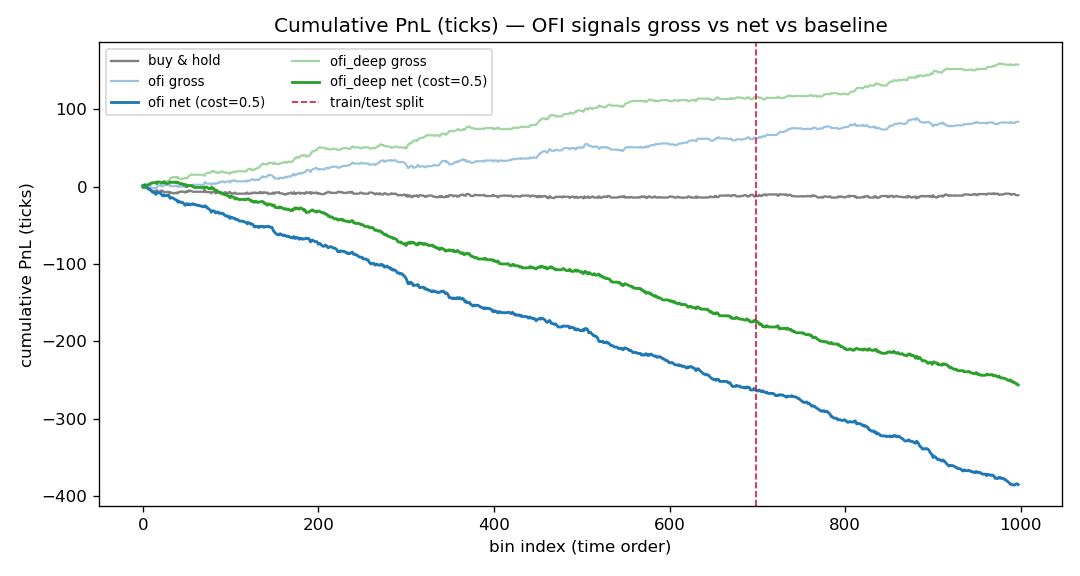
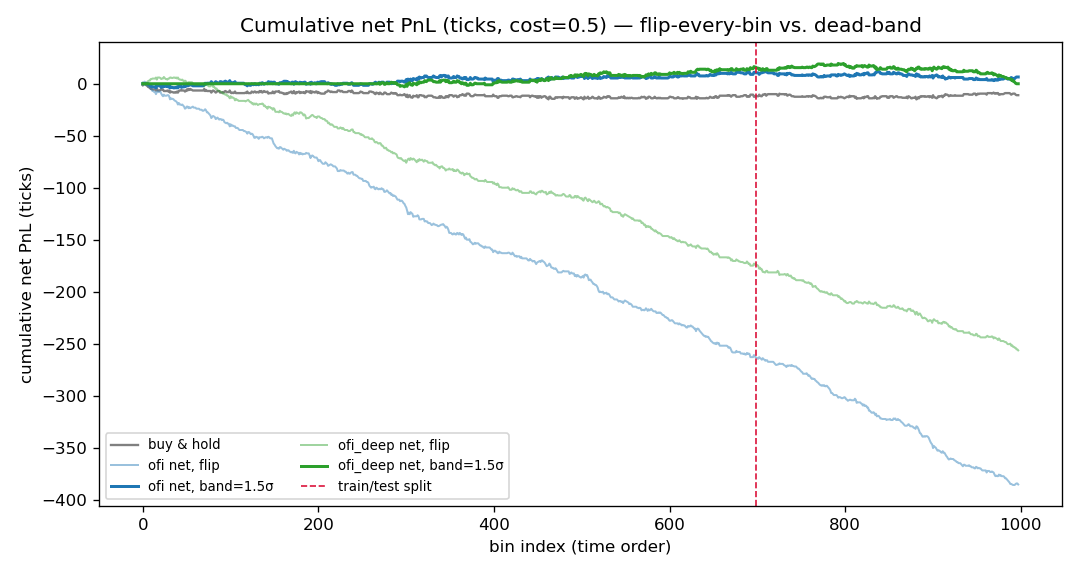
M8: turnover-aware dead-band position sizing
Add a hysteresis dead-band to the cost-aware backtest: position holds until the
predicted move exceeds a threshold tuned on the training window only, cutting
turnover. backtest.py reports flip-every-bin vs dead-band net PnL and the
turnover reduction; plots.py shows both nets vs baseline.

Honest finding (synthetic, 0.5-tick cost): the dead-band cuts L1 turnover ~89%
and lifts test net PnL from -123.5 to -4.5 (near break-even), deep from -82.5 to
-15.5 -- but both stay negative. Throttling turnover removes cost drag; it does
not manufacture alpha from a weak signal on frictionless data. Reported as
measured, not tuned. Docs updated.

Python black-clean; C++ unchanged (64 tests still pass).

diff --git a/python/backtest.py b/python/backtest.py
@@ -10,9 +10,12 @@ Stoikov (2014):
   ``--train-frac`` of bins (chronological, never shuffled) and evaluated on the
   held-out tail.
 
-It also runs a **transaction-cost-aware PnL**: a position ``sign(â + b̂·OFI)``
-from the train fit, charged ``--cost-ticks`` per unit of turnover, so the
-reported net PnL reflects whether any edge survives the spread.
+It also runs a **transaction-cost-aware PnL**: a position from the train-fitted
+line, charged ``--cost-ticks`` per unit of turnover. Two position rules are
+compared — the naive flip-every-bin ``sign(â + b̂·OFI)`` and a **hysteresis
+dead-band** whose width is tuned on the training window only — so the net PnL
+shows both whether any edge survives the spread and how much a turnover throttle
+recovers.
 
 The OLS is implemented directly on ``numpy`` — no heavyweight stats dependency.
 Writes ``bins.csv`` (for plotting) and ``backtest_summary.json`` (metrics).
@@ -85,19 +88,27 @@ def _oos_r2(y_true: np.ndarray, y_pred: np.ndarray) -> float:
     return 1.0 - ss_res / ss_tot if ss_tot > 0 else float("nan")
 
 
-def _pnl(
-    signal: np.ndarray,
-    fwd: np.ndarray,
-    a: float,
-    b: float,
-    cost_ticks: float,
-    split: int,
+def positions(pred: np.ndarray, band: float) -> np.ndarray:
+    """Hysteresis position rule: go long when ``pred > band``, short when
+    ``pred < -band``, otherwise **hold** the current position. ``band == 0``
+    reduces to ``sign(pred)`` (flip every bin). A wider band trades less."""
+    pos = np.zeros(len(pred))
+    cur = 0.0
+    for i in range(len(pred)):
+        p = pred[i]
+        if p > band:
+            cur = 1.0
+        elif p < -band:
+            cur = -1.0
+        pos[i] = cur
+    return pos
+
+
+def _pnl_from_positions(
+    pos: np.ndarray, fwd: np.ndarray, cost_ticks: float, split: int
 ) -> Dict[str, float]:
-    """Cost-aware PnL of trading position = sign(a + b*signal). Turnover is the
-    absolute position change; each unit is charged ``cost_ticks``."""
-    position = np.sign(a + b * signal)
-    turnover = np.abs(np.diff(position, prepend=0.0))
-    gross = position * fwd
+    turnover = np.abs(np.diff(pos, prepend=0.0))
+    gross = pos * fwd
     net = gross - cost_ticks * turnover
     test = slice(split, None)
     return {
@@ -108,6 +119,44 @@ def _pnl(
         "test_net_ticks": float(net[test].sum()),
         "test_turnover": float(turnover[test].sum()),
     }
+
+
+def _pnl(
+    signal: np.ndarray,
+    fwd: np.ndarray,
+    a: float,
+    b: float,
+    cost_ticks: float,
+    split: int,
+) -> Dict[str, float]:
+    """Cost-aware PnL of the plain ``sign(a + b*signal)`` rule (no dead-band)."""
+    return _pnl_from_positions(positions(a + b * signal, 0.0), fwd, cost_ticks, split)
+
+
+def _select_deadband(
+    pred: np.ndarray, fwd: np.ndarray, cost_ticks: float, split: int
+) -> Dict[str, float]:
+    """Chooses the dead-band (as a multiple of the train-set predicted-return
+    std) that maximizes **train** net PnL, then reports its metrics — so the
+    threshold is a hyperparameter tuned only on the training window, never on the
+    held-out test set."""
+    sigma = float(np.std(pred[:split])) or 1.0
+    best: Dict[str, float] = {}
+    best_train = -np.inf
+    for k in (0.0, 0.25, 0.5, 1.0, 1.5, 2.0, 3.0):
+        band = k * sigma
+        pos = positions(pred, band)
+        turnover = np.abs(np.diff(pos, prepend=0.0))
+        train_net = float(
+            (pos[:split] * fwd[:split]).sum() - cost_ticks * turnover[:split].sum()
+        )
+        if train_net > best_train:
+            best_train = train_net
+            best = _pnl_from_positions(pos, fwd, cost_ticks, split)
+            best["band_sigmas"] = k
+            best["band"] = band
+            best["train_net_ticks"] = train_net
+    return best
 
 
 def run(
@@ -128,15 +177,18 @@ def run(
         predictive_is = _fit(fwd[:split], x[:split])
         oos_pred = predictive_is["intercept"] + predictive_is["beta"] * x[split:]
         predictive_oos_r2 = _oos_r2(fwd[split:], oos_pred)
-        pnl = _pnl(
-            x, fwd, predictive_is["intercept"], predictive_is["beta"], cost_ticks, split
-        )
+
+        a, b = predictive_is["intercept"], predictive_is["beta"]
+        pred = a + b * x
+        pnl = _pnl_from_positions(positions(pred, 0.0), fwd, cost_ticks, split)
+        pnl_deadband = _select_deadband(pred, fwd, cost_ticks, split)
 
         signals[sig] = {
             "contemporaneous": contemporaneous,
             "predictive_in_sample": predictive_is,
             "predictive_oos_r_squared": predictive_oos_r2,
             "pnl": pnl,
+            "pnl_deadband": pnl_deadband,
         }
 
     return {
@@ -181,17 +233,28 @@ def main() -> None:
     )
     header = (
         f"{'signal':>9} | {'contemp R²':>10} | {'pred OOS R²':>11} | "
-        f"{'test gross':>10} | {'test net':>9}"
+        f"{'net (flip)':>10} | {'net (band)':>10} | {'band σ':>6} | {'turn↓':>6}"
     )
     print(header)
     print("-" * len(header))
     for sig, m in result["signals"].items():
+        db = m["pnl_deadband"]
+        turn_ratio = (
+            db["test_turnover"] / m["pnl"]["test_turnover"]
+            if m["pnl"]["test_turnover"]
+            else float("nan")
+        )
         print(
             f"{sig:>9} | {m['contemporaneous']['r_squared']:>10.4f} | "
             f"{m['predictive_oos_r_squared']:>11.4f} | "
-            f"{m['pnl']['test_gross_ticks']:>10.1f} | "
-            f"{m['pnl']['test_net_ticks']:>9.1f}"
+            f"{m['pnl']['test_net_ticks']:>10.1f} | "
+            f"{db['test_net_ticks']:>10.1f} | "
+            f"{db['band_sigmas']:>6.2f} | {turn_ratio:>6.2f}"
         )
+    print(
+        "\n(net = test-set PnL in ticks; 'flip' trades every bin, 'band' uses a "
+        "train-tuned dead-band; turn↓ = band/flip turnover ratio)"
+    )
     print(f"\nWrote {args.out_bins} and {args.out_summary}")
 
 

diff --git a/python/plots.py b/python/plots.py
@@ -63,14 +63,24 @@ def make_scatter(bins: pd.DataFrame, out_path: str, signal: str) -> None:
     plt.close(fig)
 
 
-def _cum_pnl(
-    signal: np.ndarray, fwd: np.ndarray, a: float, b: float, cost: float
-) -> tuple[np.ndarray, np.ndarray]:
-    position = np.sign(a + b * signal)
-    turnover = np.abs(np.diff(position, prepend=0.0))
-    gross = np.cumsum(position * fwd)
-    net = np.cumsum(position * fwd - cost * turnover)
-    return gross, net
+def _hysteresis_positions(pred: np.ndarray, band: float) -> np.ndarray:
+    """Mirror of backtest.positions: long above +band, short below -band, else
+    hold. Kept in sync so the plotted PnL matches the reported metrics."""
+    pos = np.zeros(len(pred))
+    cur = 0.0
+    for i in range(len(pred)):
+        p = pred[i]
+        if p > band:
+            cur = 1.0
+        elif p < -band:
+            cur = -1.0
+        pos[i] = cur
+    return pos
+
+
+def _cum(pos: np.ndarray, fwd: np.ndarray, cost: float) -> np.ndarray:
+    turnover = np.abs(np.diff(pos, prepend=0.0))
+    return np.cumsum(pos * fwd - cost * turnover)
 
 
 def make_pnl(bins: pd.DataFrame, summary: dict, out_path: str) -> None:
@@ -87,15 +97,22 @@ def make_pnl(bins: pd.DataFrame, summary: dict, out_path: str) -> None:
             continue
         a = metrics["predictive_in_sample"]["intercept"]
         b = metrics["predictive_in_sample"]["beta"]
-        gross, net = _cum_pnl(bins[sig].to_numpy(dtype=float), fwd, a, b, cost)
+        pred = a + b * bins[sig].to_numpy(dtype=float)
         c = colors.get(sig, None)
-        ax.plot(gross, label=f"{sig} gross", lw=1.3, color=c, alpha=0.45)
-        ax.plot(net, label=f"{sig} net (cost={cost})", lw=1.7, color=c)
+        # Flip-every-bin net (band 0) vs. the train-tuned dead-band net.
+        net_flip = _cum(_hysteresis_positions(pred, 0.0), fwd, cost)
+        band = metrics["pnl_deadband"]["band"]
+        ks = metrics["pnl_deadband"]["band_sigmas"]
+        net_band = _cum(_hysteresis_positions(pred, band), fwd, cost)
+        ax.plot(net_flip, label=f"{sig} net, flip", lw=1.2, color=c, alpha=0.45)
+        ax.plot(net_band, label=f"{sig} net, band={ks:g}σ", lw=1.8, color=c)
 
     ax.axvline(split, color="crimson", ls="--", lw=1, label="train/test split")
-    ax.set_title("Cumulative PnL (ticks) — OFI signals gross vs net vs baseline")
+    ax.set_title(
+        f"Cumulative net PnL (ticks, cost={cost}) — flip-every-bin vs. dead-band"
+    )
     ax.set_xlabel("bin index (time order)")
-    ax.set_ylabel("cumulative PnL (ticks)")
+    ax.set_ylabel("cumulative net PnL (ticks)")
     ax.legend(loc="best", fontsize=8, ncol=2)
     fig.tight_layout()
     fig.savefig(out_path, dpi=120)

diff --git a/docs/results.md b/docs/results.md
@@ -37,27 +37,31 @@ from ~1000 bins, not economic magnitude.
 
 ![Cumulative PnL](pnl.png)
 
-Position is `sign(â + b̂·OFI_t)` from the **train** fit (a contrarian rule, since β < 0),
-applied throughout. Out-of-sample (test-set) totals, in ticks:
+Position is taken from the **train** fit (a contrarian rule, since β < 0). Two rules are
+compared: **flip** (`sign(â + b̂·OFI_t)`, re-decided every bin) and a **hysteresis
+dead-band** that only changes position when the predicted move exceeds a threshold tuned
+on the training window (here 1.5× the train predicted-return std). Out-of-sample (test-set)
+net PnL, in ticks:
 
-| Signal | test gross | test net (0.5-tick cost) | test turnover |
-|--------|-----------:|-------------------------:|--------------:|
-| `ofi` (L1)   | +20.5 | **−123.5** | 288 |
-| `ofi_deep` (top-5) | +42.5 | **−82.5** | 250 |
+| Signal | net (flip) | test turnover | net (dead-band) | turnover | turnover cut |
+|--------|-----------:|--------------:|----------------:|---------:|-------------:|
+| `ofi` (L1)   | **−123.5** | 288 | **−4.5** | 32 | −89% |
+| `ofi_deep` (top-5) | **−82.5** | 250 | **−15.5** | 152 | −39% |
 
-**The edge does not survive transaction costs.** Both signals are modestly profitable
-*gross* (deep more so), but the strategy flips position almost every bin (~250–290 turns
-over 300 test bins), and at 0.5 tick per turn the costs swamp the tiny per-bin edge — net
-PnL is **firmly negative** for both. Deep OFI loses less (higher gross, slightly lower
-turnover), but neither is tradable as-is.
+**The naive edge does not survive costs, and a turnover throttle recovers most but not all
+of the loss.** Trading every bin (~250–290 turns over 300 test bins) at 0.5 tick/turn swamps
+the tiny per-bin gross edge, so flip net PnL is firmly negative. The train-tuned dead-band
+cuts L1 turnover by ~89% and lifts net PnL from −123.5 to **−4.5** (near break-even), and
+deep from −82.5 to −15.5 — but **both stay negative**. Throttling turnover removes cost
+drag; it does not manufacture alpha from a signal this weak on frictionless data.
 
 ## Honest caveats
 
 1. **Frictionless synthetic, mechanical data.** The exploited reversion is a property of
    the generator, not evidence it exists (or has this sign) in real markets.
-2. **Costs applied, but naively.** A real strategy would throttle turnover, use a
-   dead-band, or hold longer — this is a deliberately simple sign rule to expose the
-   cost sensitivity, not an optimized system.
+2. **Even with a dead-band, this is not an optimized system.** One threshold grid, one
+   hysteresis rule, a fixed cost — a real strategy would model queue position, latency,
+   and a fuller cost curve.
 3. **Single asset, single seed, ~50 s of simulated time.** A pipeline demonstration, not a
    robust alpha study.
 4. **OFI is a signal, not a strategy.** Strong contemporaneous impact ≠ tradable forecast.
@@ -66,9 +70,11 @@ turnover), but neither is tradable as-is.
 
 The engine reconstructs the book exactly (validated to the tick against ground truth), and
 the OFI signals behave sensibly and informatively: **multi-level OFI dramatically improves
-contemporaneous explanatory power (R² 0.53), predictive power is weak and transient, and a
-naive signal-following strategy loses money after realistic costs.** That is the honest,
-expected outcome on frictionless synthetic data — reported as measured, not tuned.
+contemporaneous explanatory power (R² 0.53); predictive power is weak and transient; a
+naive signal-following strategy loses money after realistic costs; and a train-tuned
+turnover throttle recovers most of that loss but still does not clear the spread.** That is
+the honest, expected outcome on frictionless synthetic data — reported as measured, not
+tuned.
 
 ## Reproduce
 
@@ -83,7 +89,9 @@ python python/plots.py
 
 ## Next steps
 
-- Swap in **LOBSTER** real sample data (same event schema) — the real test of whether OFI
-  predicts, and with which sign, out of sample and net of costs.
-- Turnover-aware position sizing (dead-band / hold) so the gross edge isn't spent on fees.
+- Run on **real LOBSTER data** (the `--book-only` reconstruction path and adapter are
+  built and CI-verified against LOBSTER's own book; obtaining a sample is a manual,
+  user-side download) — the real test of whether OFI predicts, and with which sign, out of
+  sample and net of costs.
 - Per-level OFI as separate regressors (not just summed) to see where the information sits.
+- A fuller cost/queue model (queue position, latency) rather than a flat per-turn tick.

diff --git a/README.md b/README.md
@@ -34,9 +34,9 @@ randomized invariant stress test); the Python layer handles the statistical back
 
 **Post-M5 enhancements (done):** multi-level (top-*N*) integrated OFI; a
 transaction-cost-aware backtest comparing L1 vs. deep OFI; and **LOBSTER-format
-reconstruction** (`--book-only` mode + adapter + fixture, CI-verified). **Still open:**
-running on a *real* LOBSTER sample (download is user-gated), turnover-aware position
-sizing, per-level OFI regressors, optional pybind11 bindings.
+reconstruction** (`--book-only` mode + adapter + fixture, CI-verified). Plus **turnover-aware dead-band
+sizing** in the cost-aware backtest. **Still open:** running on a *real* LOBSTER sample
+(download is user-gated), per-level OFI regressors, optional pybind11 bindings.
 See [docs/results.md](docs/results.md#next-steps).
 
 ## Build & test (C++)
@@ -210,9 +210,12 @@ Three honest findings:
 2. **Predictive power is weak and reverses sign** (β < 0) — OFI slightly *negatively*
    forecasts the next bin (transient impact / mean reversion); OOS R² stays ≈ 3–6%,
    significant only because N is large.
-3. **The edge does not survive costs.** Both signals are profitable *gross* but the
-   sign-flipping strategy turns over almost every bin; at 0.5 tick/turn, **net PnL is
-   firmly negative** ([docs/pnl.png](docs/pnl.png)).
+3. **The edge does not survive costs — and a turnover throttle recovers most, not all, of
+   it.** Both signals are profitable *gross*, but the flip-every-bin strategy turns over
+   almost every bin; at 0.5 tick/turn **net PnL is firmly negative** (L1 −123.5, deep
+   −82.5). A **train-tuned hysteresis dead-band** cuts L1 turnover ~89% and lifts net to
+   −4.5 (near break-even), deep to −15.5 — still negative ([docs/pnl.png](docs/pnl.png)).
+   Throttling turnover removes cost drag; it doesn't manufacture alpha.
 
 On frictionless synthetic data that mixed result is the honest, expected outcome — a
 suspiciously clean predictive edge would be a red flag, not a feature.
